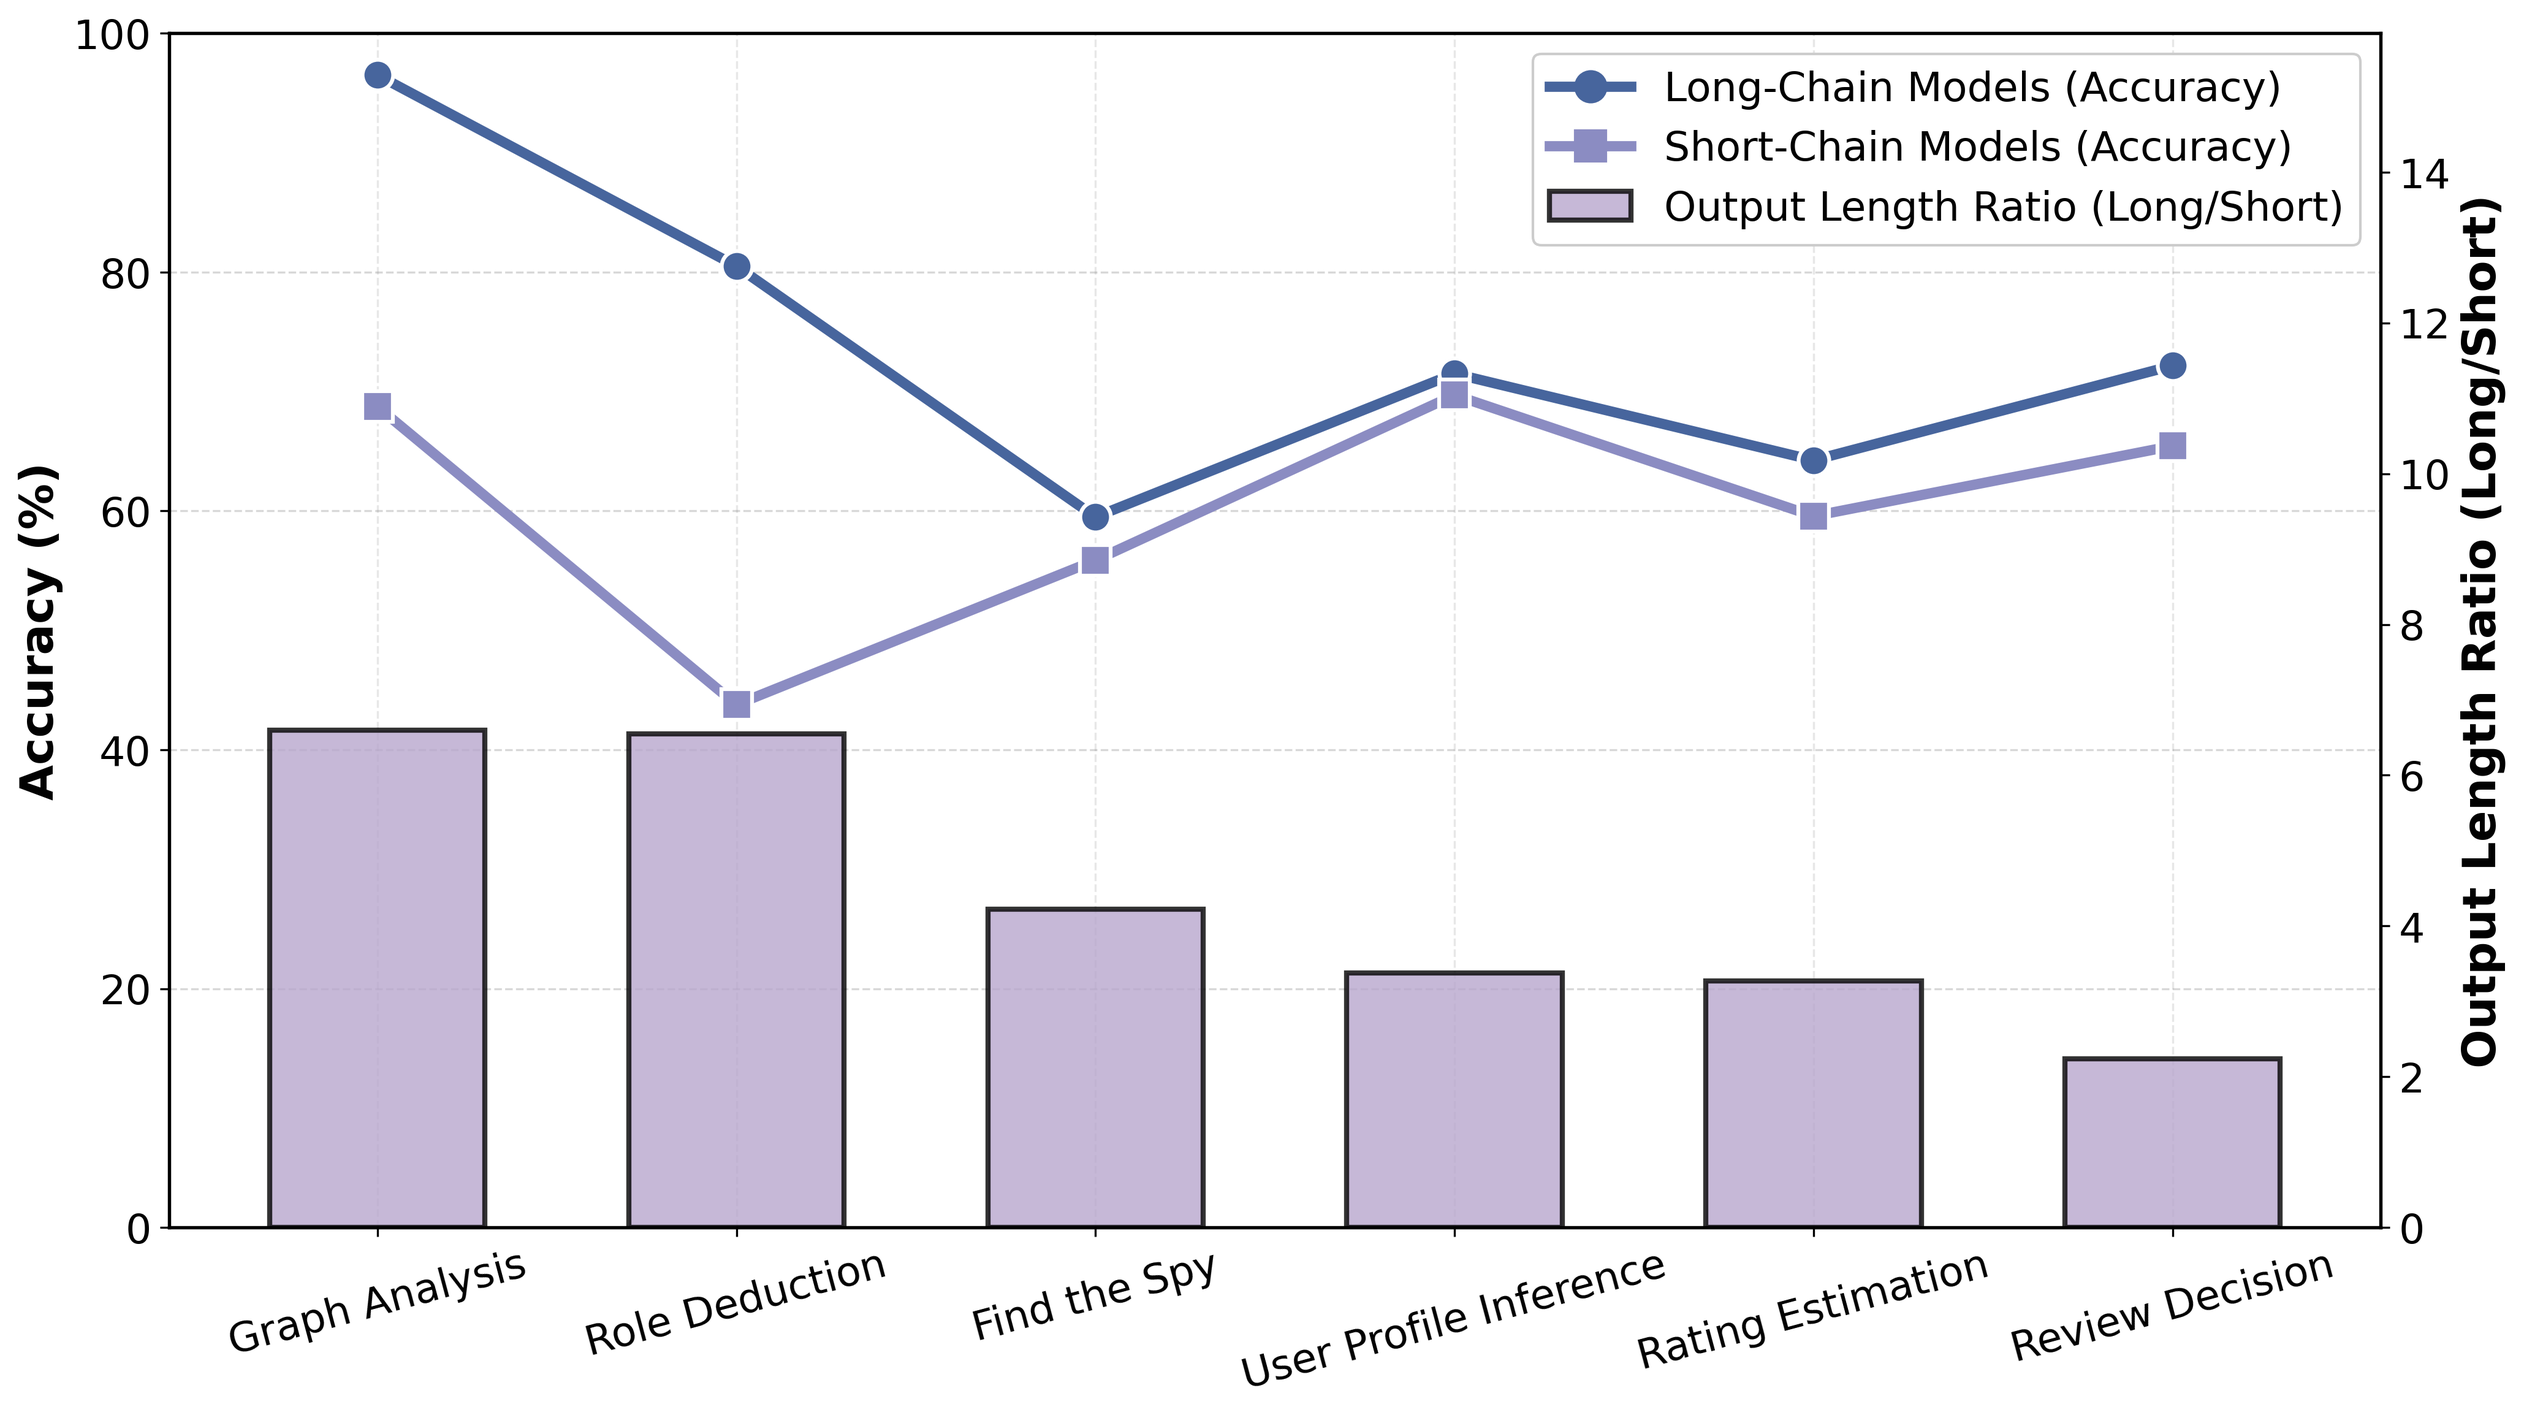
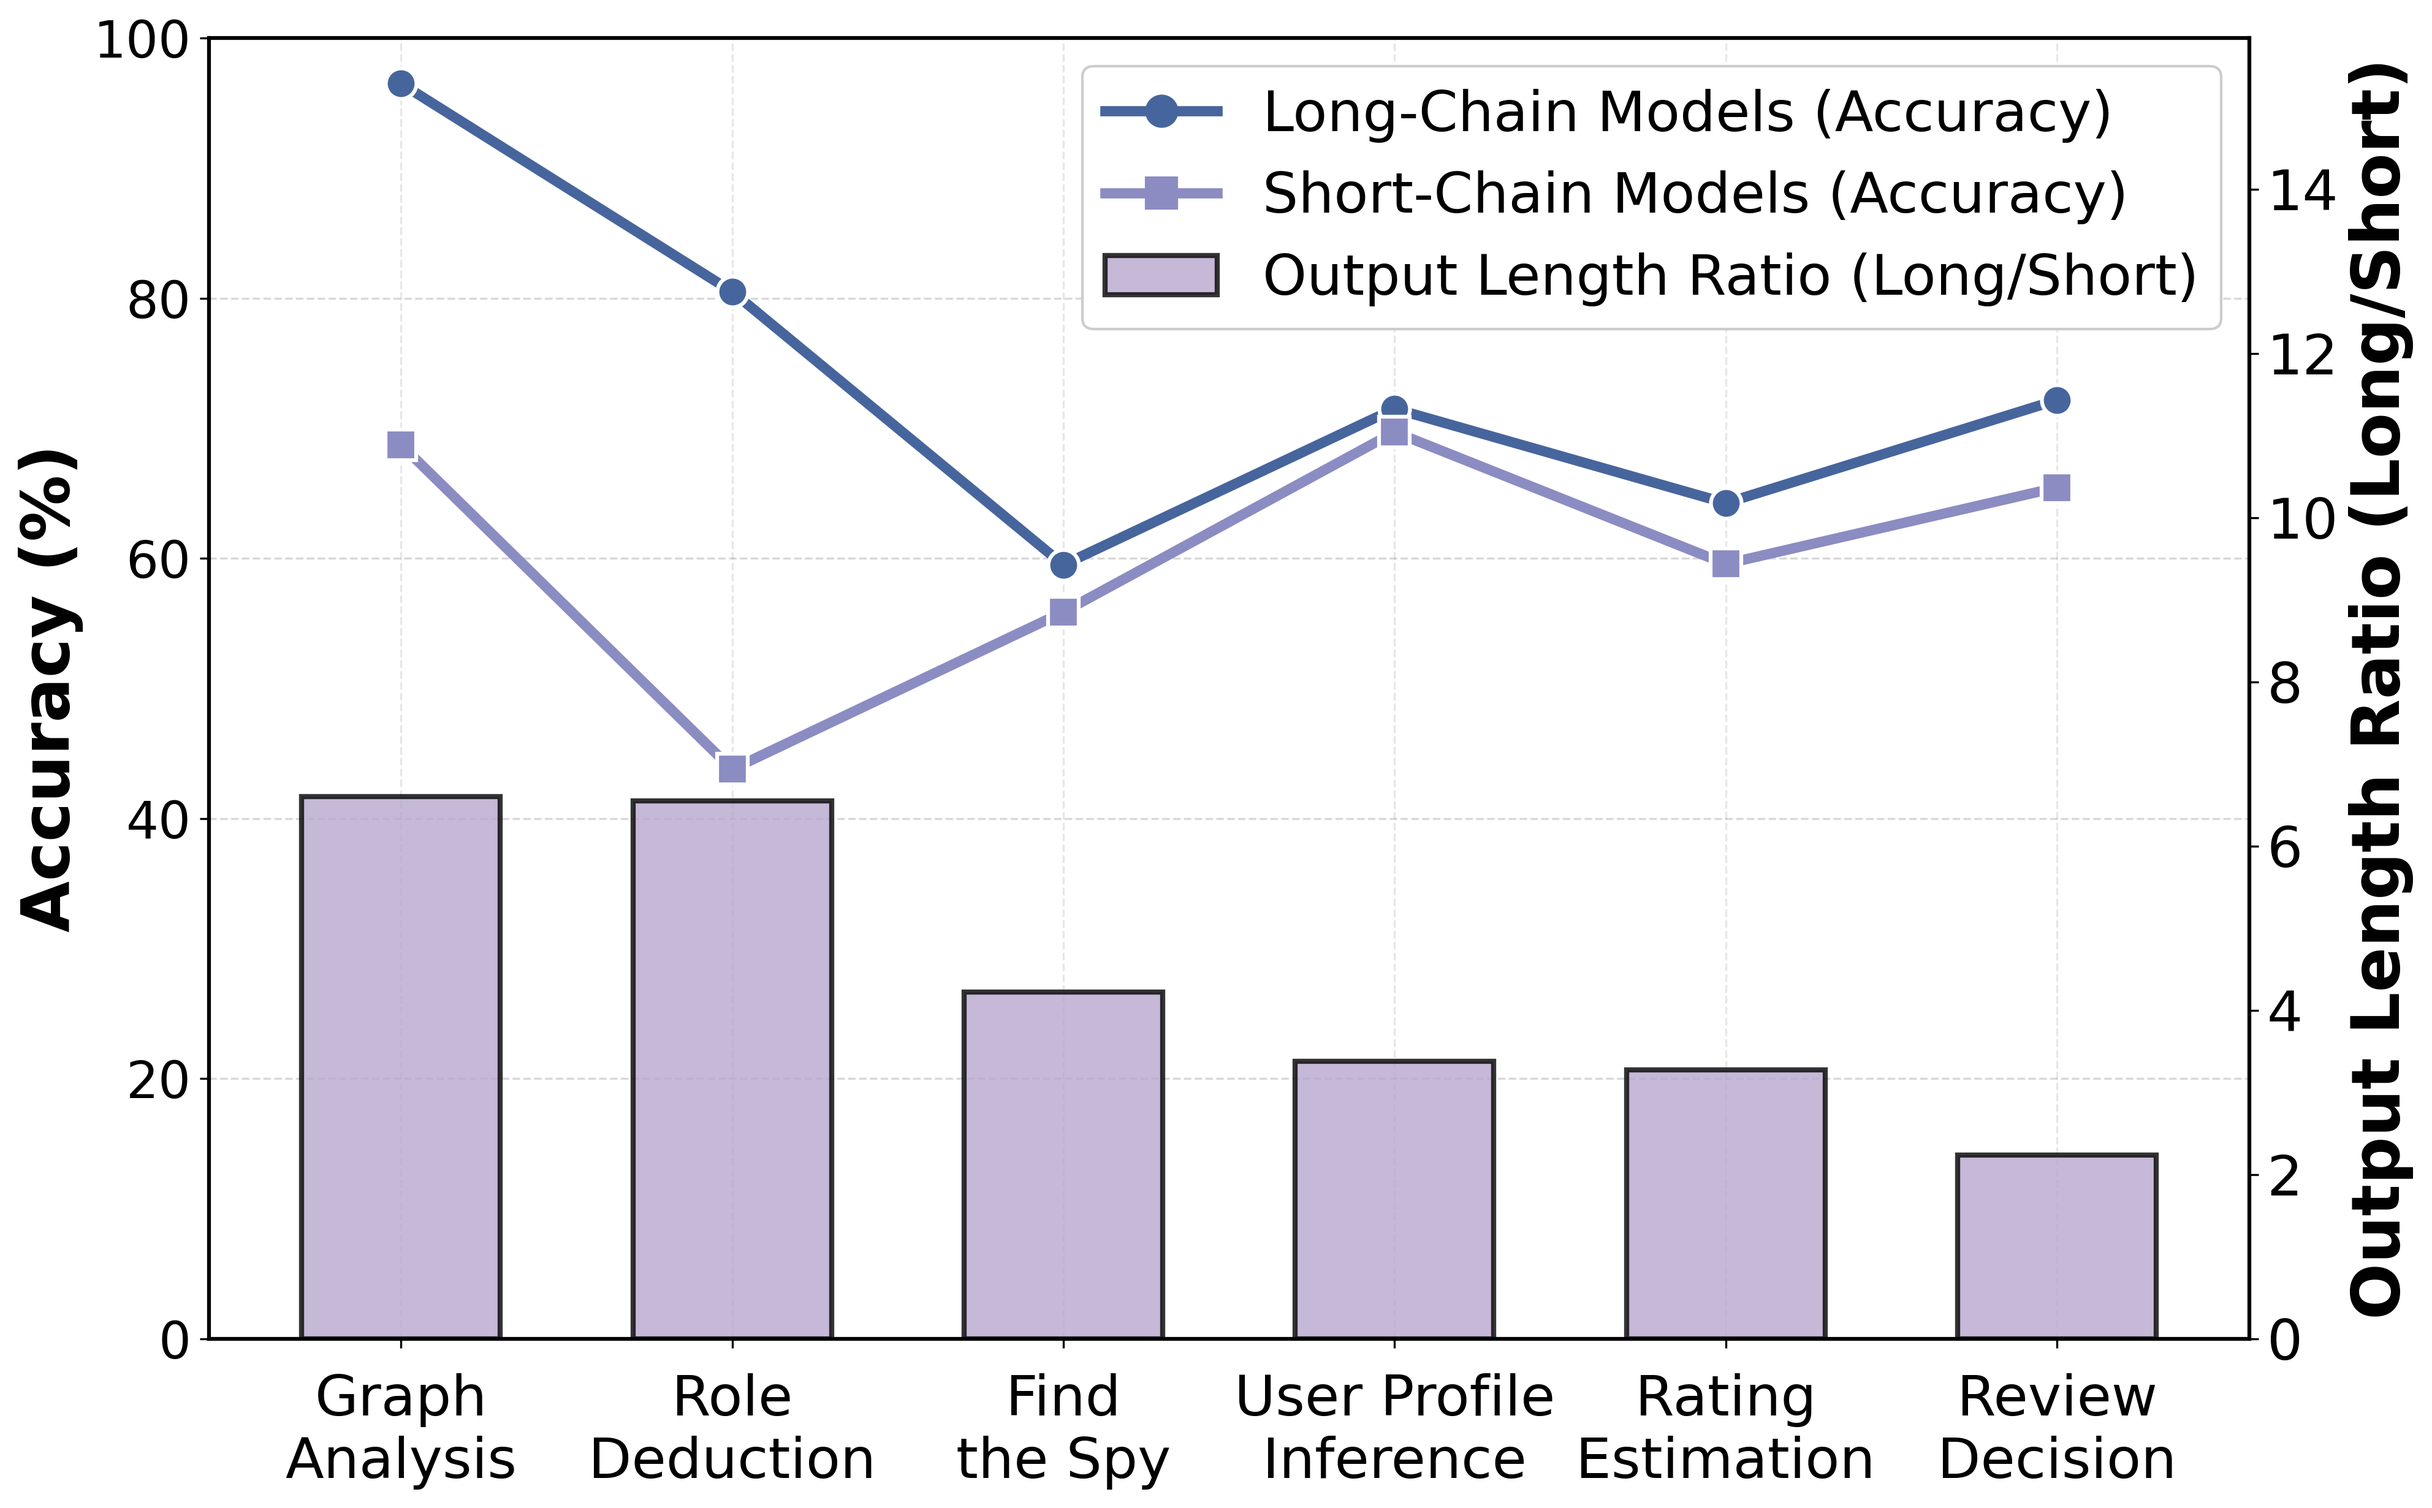
update graph

diff --git a/deep_reason.py b/deep_reason.py
@@ -67,12 +67,12 @@ length_ratios = [task_results[task]['length_ratio'] for task in sorted_tasks]
 
 # Task name mapping for better readability
 task_name_map = {
-    'blood': 'Role Deduction',
-    'debate': 'Review Decision',
-    'relation': 'Graph Analysis',
-    'review': 'Rating Estimation',
-    'spy': 'Find the Spy',
-    'user': 'User Profile Inference'
+    'blood': 'Role\nDeduction',
+    'debate': 'Review\nDecision',
+    'relation': 'Graph\nAnalysis',
+    'review': 'Rating\nEstimation',
+    'spy': 'Find\nthe Spy',
+    'user': 'User Profile\nInference'
 }
 
 display_tasks = [task_name_map.get(task, task) for task in sorted_tasks]
@@ -85,13 +85,13 @@ line_width = 3
 marker_size = 10
 
 # 创建图表
-plt.figure(figsize=(14, 8))
-fig, ax1 = plt.subplots(figsize=(14, 8))
+plt.figure(figsize=(14, 9))  # 增加高度以适应两行任务名
+fig, ax1 = plt.subplots(figsize=(14, 9))
 
 # 设置全局字体大小
-plt.rcParams.update({'font.size': 16})
+plt.rcParams.update({'font.size': 18})  # 增加基础字体大小
 plt.rcParams['axes.edgecolor'] = 'black'
-plt.rcParams['axes.linewidth'] = 1.3
+plt.rcParams['axes.linewidth'] = 1.5  # 稍微增加轴线宽度
 
 # 定义x坐标
 x = np.arange(len(sorted_tasks))
@@ -120,30 +120,30 @@ for i, (y1, y2) in enumerate(zip(long_chain_accuracies, short_chain_accuracies))
              markeredgecolor='white', markeredgewidth=1.5)
 
 # 设置左Y轴（准确率）
-ax1.set_ylabel('Accuracy (%)', fontsize=18, fontweight='bold')
+ax1.set_ylabel('Accuracy (%)', fontsize=26, fontweight='bold')  # 增大字体
 ax1.set_ylim(0, min(100, max(max(long_chain_accuracies), max(short_chain_accuracies)) * 1.15))
 ax1.grid(axis='y', linestyle='--', alpha=0.3, color='gray')
-ax1.tick_params(axis='y', labelsize=16)
+ax1.tick_params(axis='y', labelsize=20)  # 增大刻度标签
 
 # 设置右Y轴（长度比）
-ax2.set_ylabel('Output Length Ratio (Long/Short)', fontsize=18, fontweight='bold')
+ax2.set_ylabel('Output Length Ratio (Long/Short)', fontsize=26, fontweight='bold')  # 增大字体
 ax2.set_ylim(0, max(length_ratios) * 2.4)
-ax2.tick_params(axis='y', labelsize=16)
+ax2.tick_params(axis='y', labelsize=22)  # 增大刻度标签
 
-# 设置X轴
+# 设置X轴 - 不旋转，并增加间距适应两行文本
 ax1.set_xticks(x)
-ax1.set_xticklabels(display_tasks, fontsize=16, rotation=15, ha='center')
-ax1.tick_params(axis='x', labelsize=16)
+ax1.set_xticklabels(display_tasks, fontsize=22, rotation=0, ha='center')  # 不旋转，居中对齐
+ax1.tick_params(axis='x', labelsize=22, pad=10)  # 增大刻度标签并增加底部间距
 
 # 合并图例
 lines1, labels1 = ax1.get_legend_handles_labels()
 lines2, labels2 = ax2.get_legend_handles_labels()
-ax1.legend(lines1 + lines2, labels1 + labels2, loc='upper right', fontsize=16, framealpha=1)
+ax1.legend(lines1 + lines2, labels1 + labels2, loc='upper right', fontsize=22, framealpha=1)  # 增大图例字体
 
 # 添加网格线以便更好地阅读数据
 ax1.grid(True, linestyle='--', alpha=0.3)
 
-plt.tight_layout()
+plt.tight_layout(pad=2.0)  # 增加额外的填充以确保标签不被裁剪
 plt.savefig('deep_reason.png', dpi=300, bbox_inches='tight')
 plt.close()
 
